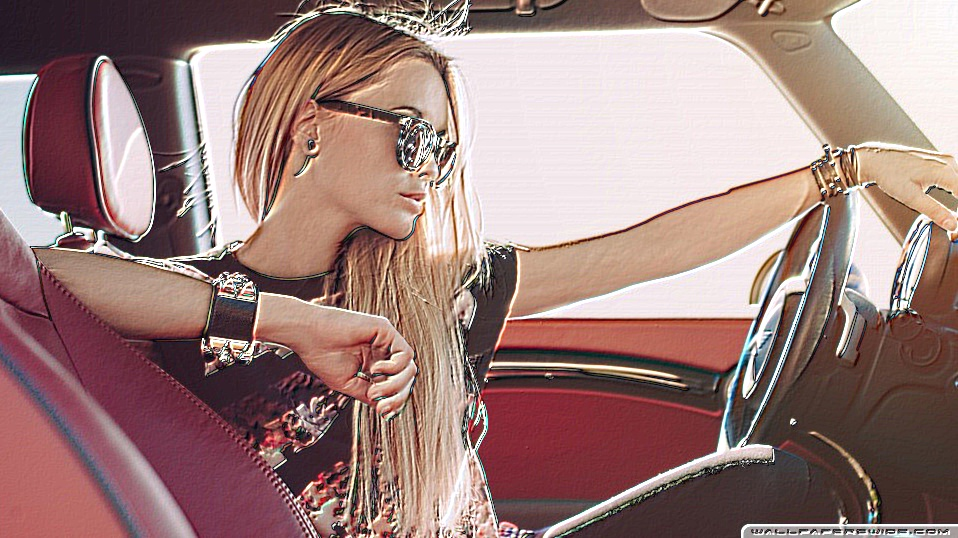
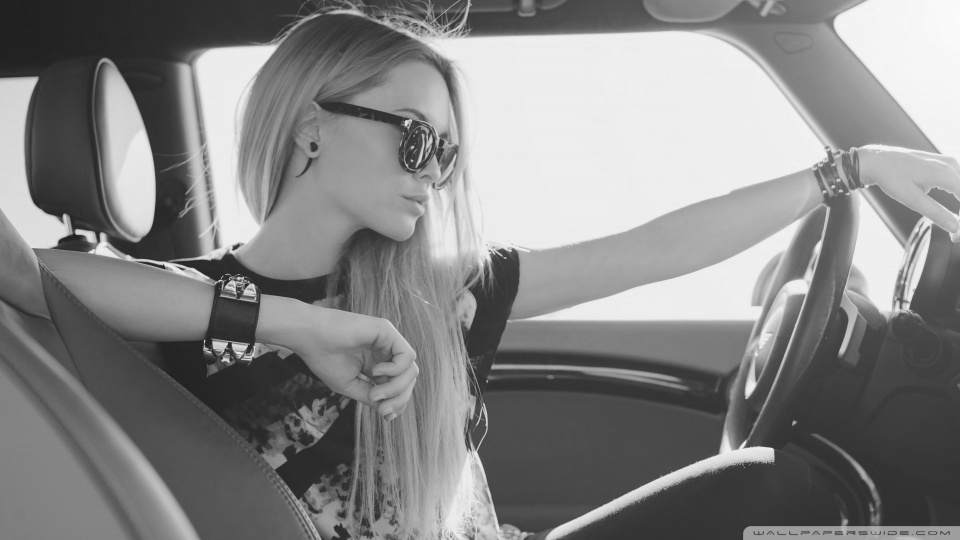
backup.

diff --git a/lib/image_processing.py b/lib/image_processing.py
@@ -4,13 +4,26 @@ import time
 import cv2 as cv
 import numpy as np
 from concurrent import futures
-from typing import TypeAlias, Final
+from typing import TypeAlias, Final, Iterator, Iterable
 from lib import tools
 
 NDArray2D: TypeAlias = np.ndarray[np.ndarray[int]]
 NDArray3D: TypeAlias = np.ndarray[np.ndarray[np.ndarray[int]]]
 
-SLISE_SIZE: Final = 1000
+CONVOLVE_SLICE_SIZE: Final = 10_000
+EROSION_SLICE_SIZE: Final = 10_000
+GS_SLICE_SIZE: Final = 100_000
+
+GS_PROCESSES: Final = 6
+ERODE_PROCESSES: Final = 6
+
+
+def threshold_img(img: NDArray2D,
+                  threshold: float) -> NDArray2D:
+    filter_func = lambda x: 0 if x < threshold else 1
+    processed_img = np.apply_along_axis(func1d=filter_func, axis=1, arr=img)
+
+    return processed_img
 
 
 # @tools.PrintExecutionTime
@@ -44,21 +57,67 @@ def convolve_img(img: NDArray3D,
     return convolved_img
 
 
+def erode_img(img: NDArray2D,
+              step: int) -> NDArray2D:
+    for _ in range(step):
+        img = erode_img_step_1(img)
+
+    return img
+
+
+def erode_img_step_1(img: NDArray2D) -> NDArray2D:
+    packs_of_areas = _get_packs_of_areas(
+        matrix=img, area_x=3, area_y=3,
+        slice_size=EROSION_SLICE_SIZE)
+
+    packs_of_results = _erode_packs_of_areas(packs=packs_of_areas)
+
+    processed_img = _get_matrix_from_packs(
+        packs=packs_of_results, x=..., y=...)
+
+    return processed_img
+
+
+def _erode_packs_of_areas(packs: list[list[NDArray2D]]) -> Iterator[list[int]]:
+    with futures.ProcessPoolExecutor(max_workers=ERODE_PROCESSES) as executor:
+        packs_of_results = executor.map(
+            _erode_pack_of_areas,
+            packs,
+        )
+
+    return packs_of_results
+
+
+def _erode_pack_of_areas(pack: list[NDArray2D]) -> list[int]:
+    results = [_erode_area(area) for area in pack]
+    return results
+
+
+def _erode_area(area: NDArray2D, kernel=None) -> int:
+    kernel = np.array([
+        [1, 1, 1],
+        [1, 1, 1],
+        [1, 1, 1],
+    ])
+
+    return 0 if area < kernel else 1
+
+
 @tools.PrintExecutionTime
 def _convolve_channels(channels: tuple[NDArray2D, NDArray2D, NDArray2D],
                        kernel: NDArray2D,
-                       processes: int | None) -> tuple[NDArray2D, NDArray2D, NDArray2D]:
-    with futures.ProcessPoolExecutor(max_workers=1) as executor:
+                       processes: int | None) -> Iterator[NDArray2D]:
+    with futures.ProcessPoolExecutor(max_workers=3) as executor:
         results = executor.map(
             _convolve_channel,
             channels, itertools.repeat(kernel), itertools.repeat(processes),
         )
 
-    print(results)
-    return tuple(results)  # type: ignore
+    return results
 
 
-def scale_img(img: NDArray3D, scale_by: int = 2):
+def scale_img(img: NDArray3D,
+              scale_by: int = 2) -> NDArray3D:
     b, g, r = _get_channels(img)
     b_scaled = _scale_channel(b, scale_by)
     g_scaled = _scale_channel(g, scale_by)
@@ -73,6 +132,43 @@ def read_images(paths: list[str]) -> list[NDArray3D]:
     return images
 
 
+@tools.PrintExecutionTime
+def grayscale_img(img: NDArray3D) -> NDArray2D:
+    raw_packs = _get_packs_of_pixels(img, slice_size=GS_SLICE_SIZE)
+    gs_packs = _grayscale_packs(raw_packs)
+
+    x, y, _ = img.shape
+    new_matrix = _get_matrix_from_packs(
+        packs=gs_packs, x=x, y=y)
+
+    return new_matrix
+
+
+@tools.PrintExecutionTime
+def _grayscale_packs(packs: list[list[np.ndarray]]) -> Iterator[list[int]]:
+    with futures.ProcessPoolExecutor(max_workers=GS_PROCESSES) as executor:
+        gs_packs = executor.map(
+            _grayscale_pack,
+            packs,
+        )
+
+    return gs_packs  # Плохо параллелится предположительно из-за того, что каждый пак надо скопировать
+
+
+def _grayscale_pack(pack: list[np.ndarray]) -> list[int]:
+    start = time.perf_counter()
+    print('start')
+
+    gs_pack = [_grayscale_pixel(pixel) for pixel in pack]
+
+    # print(time.perf_counter() - start)
+    return gs_pack
+
+
+def _grayscale_pixel(pixel: np.ndarray) -> int:
+    return sum(pixel) / len(pixel)
+
+
 # @tools.PrintExecutionTime
 def _get_channels(img: NDArray3D) -> tuple[NDArray2D, NDArray2D, NDArray2D]:
     blue_channel = img[:, :, 0]
@@ -85,7 +181,6 @@ def _get_channels(img: NDArray3D) -> tuple[NDArray2D, NDArray2D, NDArray2D]:
 def _convolve_channel(channel: NDArray2D,
                       kernel: NDArray2D,
                       processes: int | None) -> NDArray2D:
-    # print('start')
     kernel_x = len(kernel)
     kernel_y = len(kernel[0])
     matrix_x = len(channel)
@@ -95,14 +190,13 @@ def _convolve_channel(channel: NDArray2D,
     new_matrix_y = matrix_y - kernel_y + 1
 
     packs_of_areas = _get_packs_of_areas(
-        matrix=channel, area_x=kernel_x, area_y=kernel_y, slice_size=SLISE_SIZE)
-    # print(tools.total_elements(packs_of_areas), 'abc')
+        matrix=channel, area_x=kernel_x, area_y=kernel_y,
+        slice_size=CONVOLVE_SLICE_SIZE)
 
     packs_of_results = _multiply_packs_of_areas_by_kernel(
         packs=packs_of_areas, kernel=kernel, processes=processes)
 
-    # print(tools.total_elements(packs_of_results), 'bcd')
-    processed_matrix = _get_matrix_from_packs_of_results(
+    processed_matrix = _get_matrix_from_packs(
         packs=packs_of_results, x=new_matrix_x, y=new_matrix_y)
 
     return processed_matrix
@@ -113,21 +207,40 @@ def _get_packs_of_areas(matrix: NDArray2D,
                         area_x: int,
                         area_y: int,
                         slice_size: int) -> list[list[NDArray2D]]:
-    areas = _get_areas_from_matrix(matrix, area_x, area_y)
-    # print(len(areas), 'areas')
+    areas: list[NDArray2D] = _get_areas(matrix, area_x, area_y)
+    packs_of_areas: list[list[NDArray2D]] = _get_packs(areas, slice_size)
 
+    return packs_of_areas
+
+
+@tools.PrintExecutionTime
+def _get_packs_of_pixels(img: NDArray3D,
+                         slice_size: int) -> list[list[np.ndarray]]:
+    pixels: NDArray2D = _reduce_dimension(img)
+    packs_of_pixels: list[list[NDArray2D]] = _get_packs(pixels, slice_size)
+
+    return packs_of_pixels
+
+
+def _reduce_dimension(ndarray_3d: np.ndarray) -> np.ndarray:
+    x, y, z = ndarray_3d.shape
+    return ndarray_3d.reshape((x * y, z))
+
+
+def _get_packs(units: Iterable, slice_size: int) -> list[list]:
     packs = [[]]
-    for area in areas:
+
+    for unit in units:
         if len(packs[-1]) == slice_size:  # if pack is full, start new pack
             packs.append([])
-        packs[-1].append(area)  # add pixel to the latest started pack
+        packs[-1].append(unit)  # add pixel to the latest started pack
 
     return packs
 
 
-def _get_areas_from_matrix(matrix: NDArray2D,
-                           area_x: int,
-                           area_y: int) -> list[NDArray2D]:
+def _get_areas(matrix: NDArray2D,
+               area_x: int,
+               area_y: int) -> list[NDArray2D]:
     # print(tools.total_elements(matrix))
 
     areas = []
@@ -141,7 +254,7 @@ def _get_areas_from_matrix(matrix: NDArray2D,
 # @tools.PrintExecutionTime
 def _multiply_packs_of_areas_by_kernel(packs: list[list[NDArray2D]],
                                        kernel: NDArray2D,
-                                       processes: int | None) -> list[list[int]]:
+                                       processes: int | None) -> Iterator[list[int]]:
     # print(tools.total_elements(packs))
 
     with futures.ProcessPoolExecutor(max_workers=processes) as executor:
@@ -150,18 +263,15 @@ def _multiply_packs_of_areas_by_kernel(packs: list[list[NDArray2D]],
             packs, itertools.repeat(kernel),
         )
 
-    lst_packs_of_results = list(packs_of_results)
-    # print(len(lst_packs_of_results))
-    return lst_packs_of_results
+    return packs_of_results
 
 
-# @tools.PrintExecutionTime
-def _get_matrix_from_packs_of_results(packs: list[list[int]],
-                                      x: int,
-                                      y: int) -> NDArray2D:
+@tools.PrintExecutionTime
+def _get_matrix_from_packs(packs: Iterator[list[int]],
+                           x: int,
+                           y: int) -> NDArray2D:
     ndarray = np.empty(shape=(x * y), dtype='int32')
-    # print(tools.total_elements(packs))
-    # print(len(ndarray))
+
     _fill_ndarray_with_packed_results(ndarray, packs=packs)
     matrix = ndarray.reshape((x, y))
 
@@ -169,10 +279,8 @@ def _get_matrix_from_packs_of_results(packs: list[list[int]],
 
 
 def _fill_ndarray_with_packed_results(ndarray: np.ndarray[int],
-                                      packs: list[list[int]]) -> None:
+                                      packs: Iterator[list[int]]) -> None:
     results_iter = itertools.chain(*packs)
-    # print(len(list(results_iter)))
-    # print(len(ndarray))
 
     for i, _ in enumerate(ndarray):
         ndarray[i] = next(results_iter)
@@ -180,12 +288,10 @@ def _fill_ndarray_with_packed_results(ndarray: np.ndarray[int],
 
 def _multiply_pack_of_areas_by_kernel(pack: list[NDArray2D],
                                       kernel: NDArray2D) -> list[int]:
-    start = time.perf_counter()
     pack_of_results = [
         _multiply_area_by_kernel(area=area, kernel=kernel)
         for area in pack
     ]
-    # print(f"multiply_pack time: {time.perf_counter() - start}", '\n')
 
     return pack_of_results
 

diff --git a/main.py b/main.py
@@ -14,9 +14,11 @@ SAVE_FOLDER: Final = 'processed_images'
 
 def main():
     raw_img = cv.imread('raw_images/small.jpg')
-    processed_image = image_processing.convolve_img(
-        img=raw_img, kernel=kernels.RELIEF, processes=1)
+    # processed_image = image_processing.convolve_img(
+    #     img=raw_img, kernel=kernels.RELIEF, processes=4)
+    #
 
+    processed_image = image_processing.grayscale_img(img=raw_img)
     cv.imwrite('foo/bar.jpg', processed_image)
 
 
